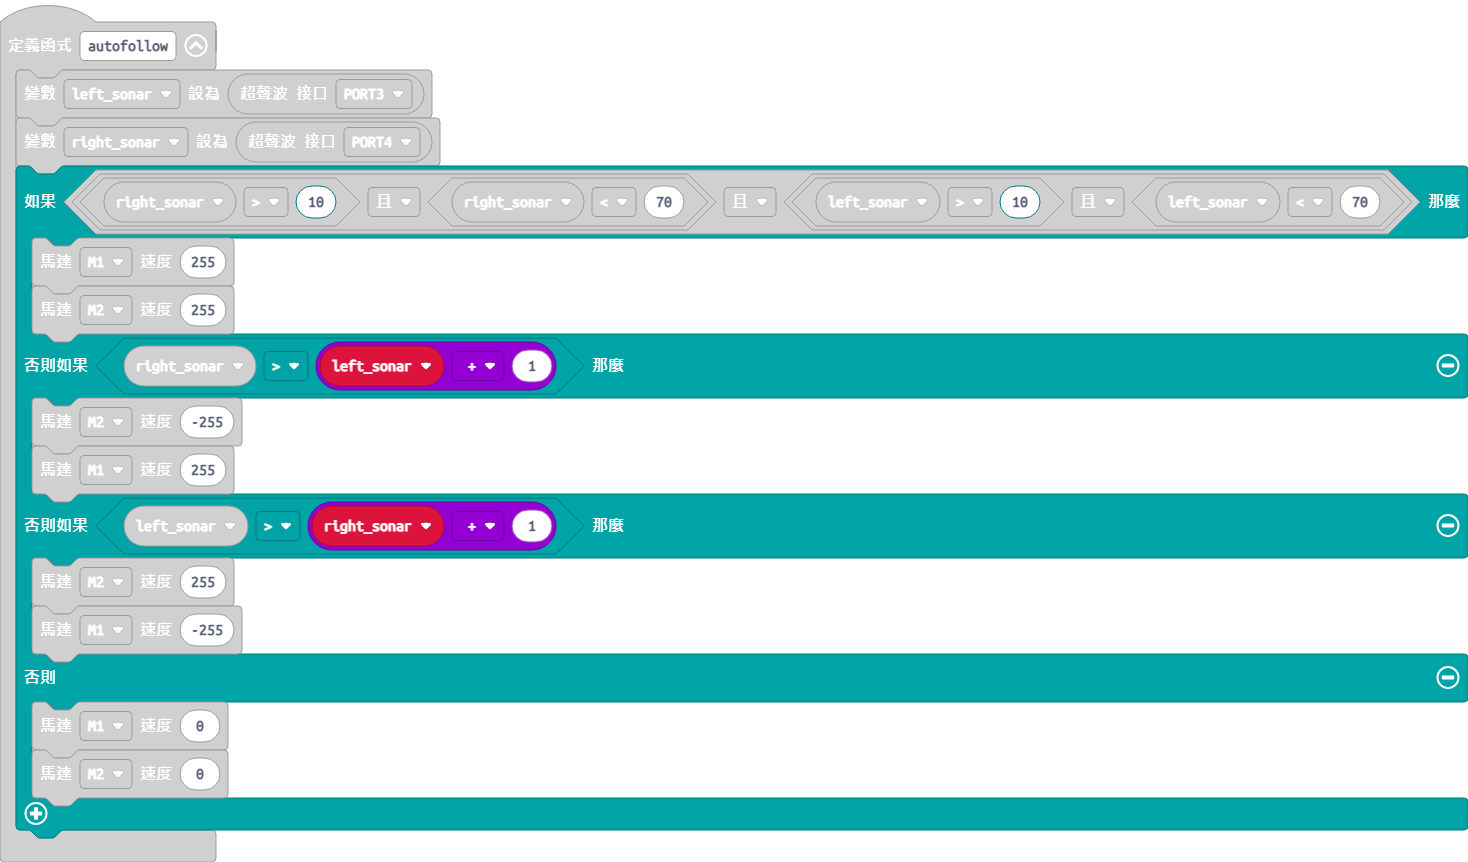
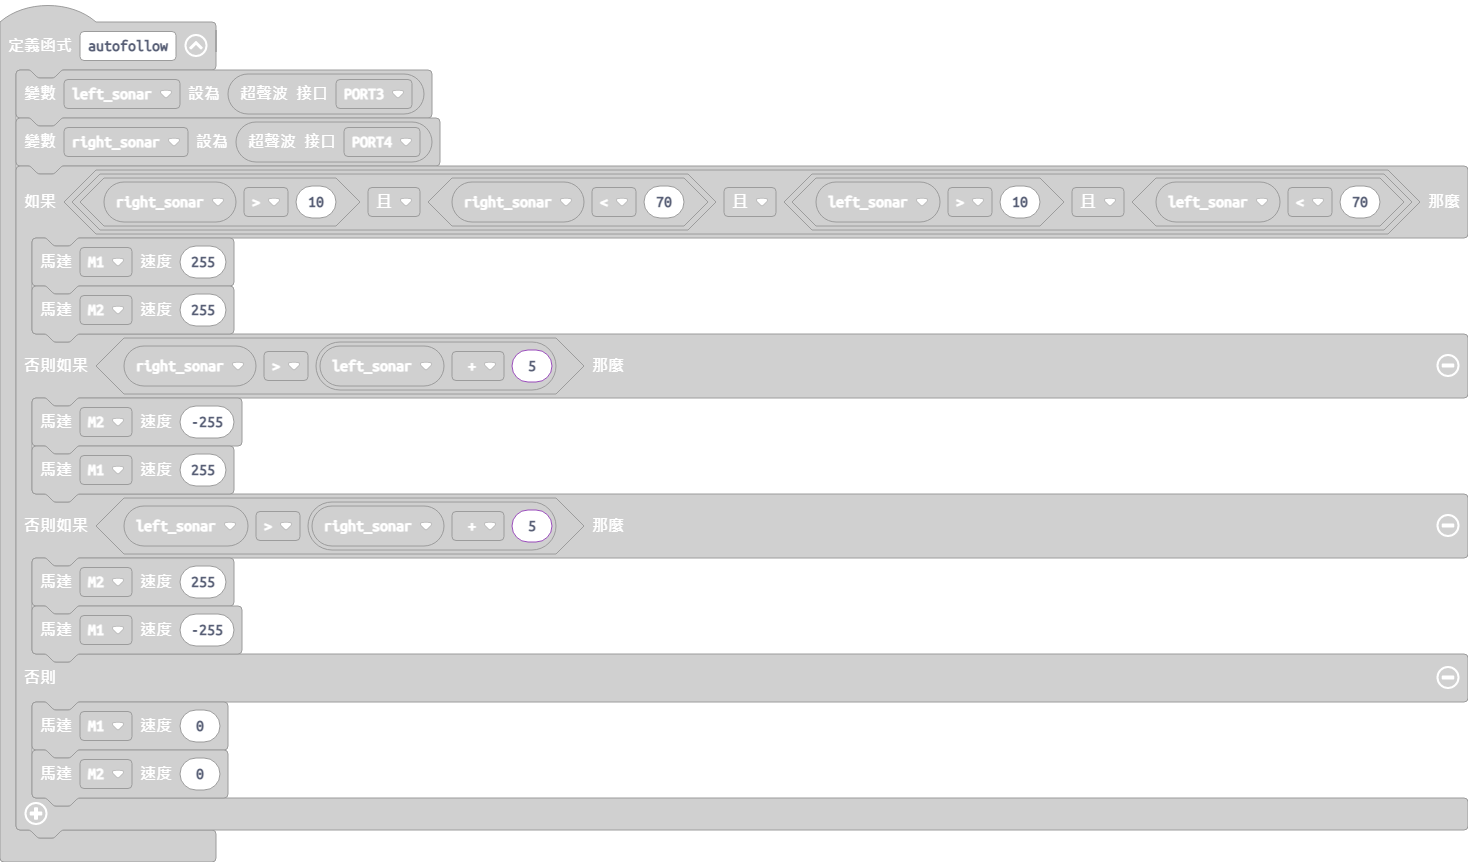
更新 main.blocks, main.ts

Changed region(s): [[0.0, 0.181, 1.0, 0.9652]]

diff --git a/main.ts b/main.ts
@@ -11,10 +11,10 @@ function autofollow () {
     if (right_sonar > 10 && right_sonar < 70 && (left_sonar > 10 && left_sonar < 70)) {
         powerbrick.MotorRun(powerbrick.Motors.M1, 255)
         powerbrick.MotorRun(powerbrick.Motors.M2, 255)
-    } else if (right_sonar > left_sonar + 1) {
+    } else if (right_sonar > left_sonar + 5) {
         powerbrick.MotorRun(powerbrick.Motors.M2, -255)
         powerbrick.MotorRun(powerbrick.Motors.M1, 255)
-    } else if (left_sonar > right_sonar + 1) {
+    } else if (left_sonar > right_sonar + 5) {
         powerbrick.MotorRun(powerbrick.Motors.M2, 255)
         powerbrick.MotorRun(powerbrick.Motors.M1, -255)
     } else {
